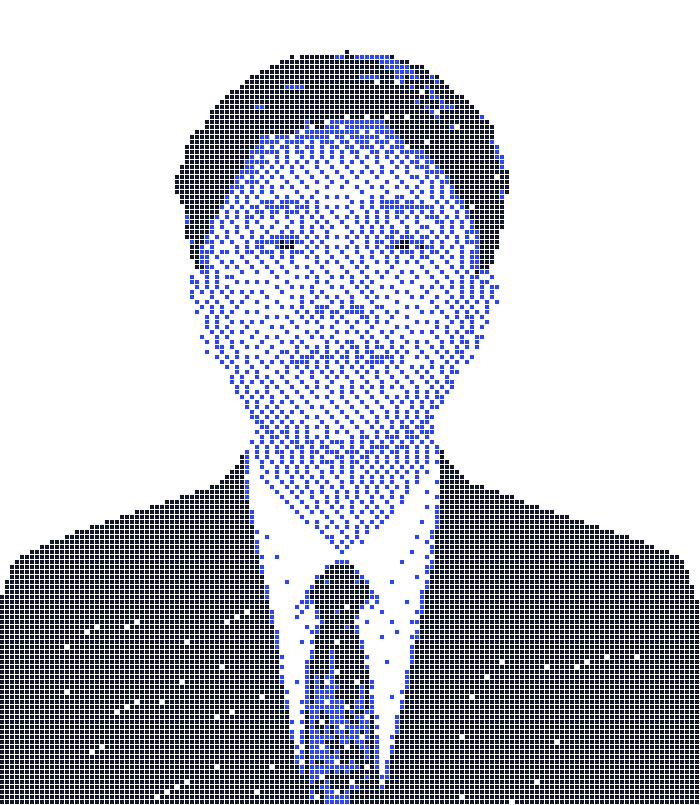
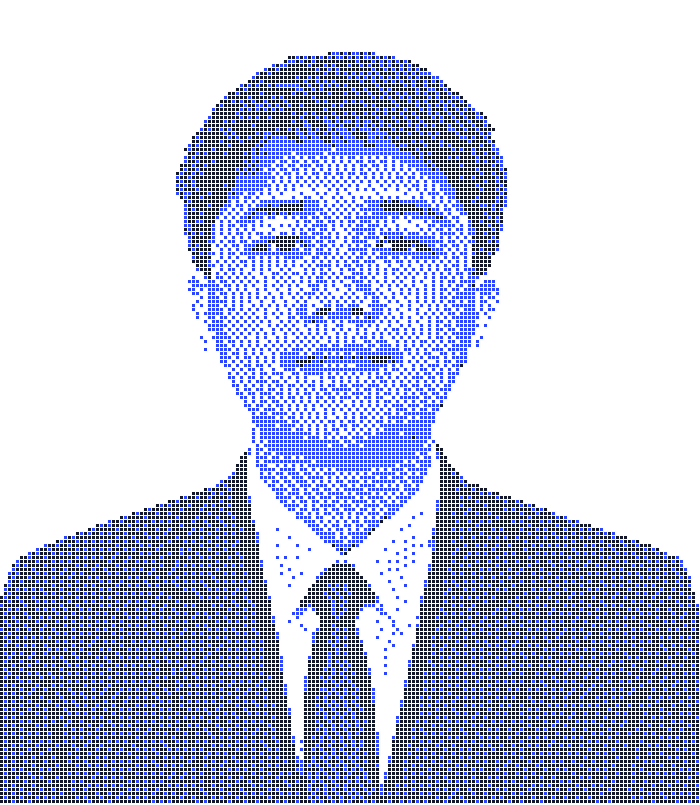
Pixel portrait as default, finer dither

Changed region(s): [[0.0, 0.0621, 1.0, 1.0]]

diff --git a/index.html b/index.html
@@ -256,21 +256,21 @@
       </div>
     </div>
 
-    <figure class="fig" id="fig" data-real="true">
+    <figure class="fig" id="fig" data-real="false">
       <span class="c3" aria-hidden="true"></span><span class="c4" aria-hidden="true"></span>
       <div class="fig-media">
         <picture>
-          <source srcset="fernando-dither.webp" type="image/webp">
-          <img class="dither" src="fernando-dither.png" alt="" width="700" height="805" loading="lazy">
+          <source srcset="fernando-dither.webp?v=2" type="image/webp">
+          <img class="dither" src="fernando-dither.png?v=2" alt="Pixel portrait of Fernando Lee" width="700" height="805" fetchpriority="high">
         </picture>
         <picture>
           <source srcset="fernando.webp" type="image/webp">
-          <img class="real" src="fernando.png" alt="Portrait of Fernando Lee" width="900" height="1129" fetchpriority="high">
+          <img class="real" src="fernando.png" alt="Portrait of Fernando Lee" width="900" height="1129" loading="lazy">
         </picture>
       </div>
       <figcaption class="fig-cap">
         <span>Fig.01 / portrait · Tangerang, ID</span>
-        <button type="button" id="toggle-photo" aria-pressed="false">Pixel version</button>
+        <button type="button" id="toggle-photo" aria-pressed="false">Show photo</button>
       </figcaption>
     </figure>
   </div>
